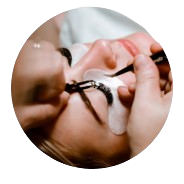
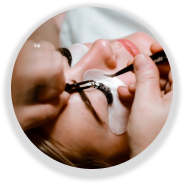
changed the imgs on FAQ page to png

Changed region(s): [[0.0272, 0.0272, 0.9783, 0.9783]]

diff --git a/src/pages/faq.tsx b/src/pages/faq.tsx
@@ -12,7 +12,7 @@ import camera from '../../public/camera.png'
 import laptop from '../../public/laptop.png'
 import welder from '../../public/welder.png'
 import lashes from '../../public/lashes.png'
-import tools from '../../public/tool.png'
+import tools from '../../public/tools.png'
 import brush from '../../public/brush.png'
 // import { IoCheckmarkDoneCircleOutline } from 'react-icons/io'
 import { AiOutlineCheckCircle } from "react-icons/ai";
